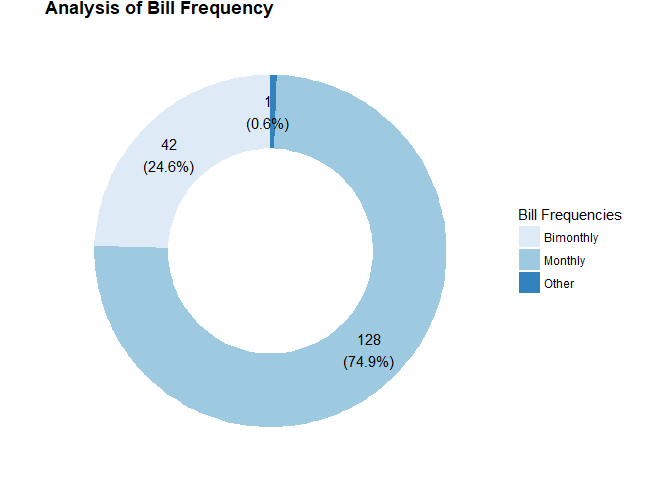
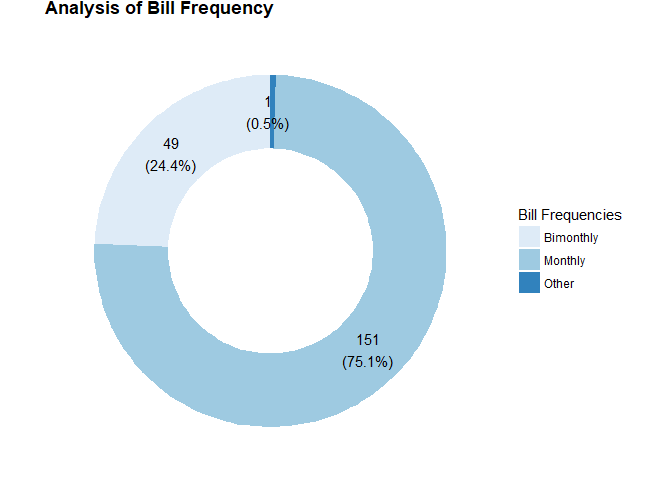
updating to include new owrs files

Changed region(s): [[0.1875, 0.2812, 0.3125, 0.375], [0.5, 0.6875, 0.5938, 0.7812], [0.1562, 0.5, 0.2188, 0.5312]]

diff --git a/owrs_analysis.md b/owrs_analysis.md
@@ -33,14 +33,17 @@ This section discusses general characteristics of the rates for utilities analyz
 
 
 ![Figure  1: Bill Frequency Pie Chart.](owrs_analysis_files/figure-html/bill_frequency_pie-1.png)
-Figure  1 above shows that 74.9% of the agencies charge their customers on a monthly basis.
+
+Figure  1 above shows that 75.1% of the agencies charge their customers on a monthly basis.
 That indicates an increase in relation to the previous survey (2015), showing that there seems to be trend in Agencies moving from a bi-monthly billing system to a monthly one. 
 
 ![Figure  2: Average bill by parts for all agencies, considering a consumption of 15 CCF in a month.](owrs_analysis_files/figure-html/mean_bill_pie-1.png)
-In terms of the different parts from a bill, Figure  2 shows that for a usage of 15 CCF the commodity charge portion from the bill is the biggest one representing on average 32.6% of the total bill.
+
+In terms of the different parts from a bill, Figure  2 shows that for a usage of 15 CCF the commodity charge portion from the bill is the biggest one representing on average 28.2% of the total bill.
 
 ![Figure  3: Types of rate structures.](owrs_analysis_files/figure-html/rate_type_pie-1.png)
-From analyzing the different rate structures adopted by each agency, Figure  3 shows that most of the agencies(67.7%) adopt a tiered rate structure, but a significant amount still adopt an uniform rate structure (24.6%)
+
+From analyzing the different rate structures adopted by each agency, Figure  3 shows that most of the agencies(69.7%) adopt a tiered rate structure, but a significant amount still adopt an uniform rate structure (23.7%)
 
 
 
@@ -49,13 +52,16 @@ From analyzing the different rate structures adopted by each agency, Figure  3 s
 
 
 ![Figure  4: Ratio of Service charge to total bill at 15 CCF.](owrs_analysis_files/figure-html/service_ratio_histogram-1.png)
-The histogram in Figure  5 shows the distribution and the mean of the ratio between the service charge and the total bill for each agency. That number is a good proxy for the proportion of revenue in each agency that is fixed and does not depend on the consumer's water usage.
 
-![Figure  6: Total bill at 15 CCF.](owrs_analysis_files/figure-html/bill_histogram-1.png)
-Figure  6 shows an histogram of the different amounts charged by each agency for a water usage of 15 CCF in single family residential units.
+The histogram in Figure  4 shows the distribution and the mean of the ratio between the service charge and the total bill for each agency. That number is a good proxy for the proportion of revenue in each agency that is fixed and does not depend on the consumer's water usage.
 
-![Figure  7: Boxplot of Total Bill vs Usage.](owrs_analysis_files/figure-html/total_bill_vs_usage_box-1.png)
-Figure  7 ilustrates how the variability of the total water bill among agencies increases the higher the water usage by single residential units. It noteworthy that at a usage as low as 10 to 15 CCF there can be already a difference of two to three fold between agencies. 
+![Figure  5: Total bill at 15 CCF.](owrs_analysis_files/figure-html/bill_histogram-1.png)
+
+Figure  5 shows an histogram of the different amounts charged by each agency for a water usage of 15 CCF in single family residential units.
+
+![Figure  6: Boxplot of Total Bill vs Usage.](owrs_analysis_files/figure-html/total_bill_vs_usage_box-1.png)
+
+Figure  6 ilustrates how the variability of the total water bill among agencies increases the higher the water usage by single residential units. It noteworthy that at a usage as low as 10 to 15 CCF there can be already a difference of two to three fold between agencies. 
 
 # Relating Rates to Efficiency
 
@@ -69,8 +75,9 @@ The period considered for the analysis is 9/2016 to 8/2017.
 
 
 
-![Figure  8: Average price charged for 15 CCF across all agencies included in the survey.](owrs_analysis_files/figure-html/avg_price_history-1.png)
-Figure  8 shows that the prices remained fairly stable throughout the year. Although there was a large variability across agencies the the total bill for 15 CCF of usage for about half of the agencies stayed in the interval between $50 and $80 for most of the year. 
+![Figure  7: Average price charged for 15 CCF across all agencies included in the survey.](owrs_analysis_files/figure-html/avg_price_history-1.png)
+
+Figure  7 shows that the prices remained fairly stable throughout the year. Although there was a large variability across agencies the the total bill for 15 CCF of usage for about half of the agencies stayed in the interval between $50 and $80 for most of the year. 
 
 ## Efficiency in the period
 Load suppliers report info and join with the Utilities list from the OWRS files
@@ -78,8 +85,9 @@ Load suppliers report info and join with the Utilities list from the OWRS files
 
 
 
-![Figure  9: Efficiency measured as percentage above target.](owrs_analysis_files/figure-html/efficiency_ts-1.png)
-In terms of Efficiency Figure  9 shows a considerable seasonal variation and that even with that variation, most agencies have met theri efficiency goals throughout the whole period. 
+![Figure  8: Efficiency measured as percentage above target.](owrs_analysis_files/figure-html/efficiency_ts-1.png)
+
+In terms of Efficiency Figure  8 shows a considerable seasonal variation and that even with that variation, most agencies have met theri efficiency goals throughout the whole period. 
 
 
 
@@ -87,23 +95,27 @@ In terms of Efficiency Figure  9 shows a considerable seasonal variation and tha
 
 
 
-![Figure  10: Efficiency vs Total Bill.](owrs_analysis_files/figure-html/eff_vs_total_bill-1.png)
-Despite the large variance around the linear fit, Figure  10 does show a significant[* pearson? another statistical test?] negative correlation between the percentage above target and the total bill paid by residential customers in single-family units. 
+![Figure  9: Efficiency vs Total Bill.](owrs_analysis_files/figure-html/eff_vs_total_bill-1.png)
 
-![Figure  11: Efficiency vs Percentage of Service Charge in Total Bill.](owrs_analysis_files/figure-html/eff_vs_pctFixed-1.png)
-Furthermore, Figure  11 shows a positive correlation [significant? pearson?] of Percentage of Service Charge and Percentage Above Target. Indicating that the more sensitive their bill is to the amount of water they consume, more efficient the customers tend to be.  
+Despite the large variance around the linear fit, Figure  9 does show a significant[* pearson? another statistical test?] negative correlation between the percentage above target and the total bill paid by residential customers in single-family units. 
+
+![Figure  10: Efficiency vs Percentage of Service Charge in Total Bill.](owrs_analysis_files/figure-html/eff_vs_pctFixed-1.png)
+
+Furthermore, Figure  10 shows a positive correlation [significant? pearson?] of Percentage of Service Charge and Percentage Above Target. Indicating that the more sensitive their bill is to the amount of water they consume, more efficient the customers tend to be.  
 
 
 ## Operational Costs and Revenue in the Water Agencies
 
 
 
-![Figure  12: Percentage of costs that are fixed for an Agency.](owrs_analysis_files/figure-html/pct_fixed_costs-1.png)
+![Figure  11: Percentage of costs that are fixed for an Agency.](owrs_analysis_files/figure-html/pct_fixed_costs-1.png)
 
 
-![Figure  13: Percentage of an Agency's revenues that are fixed.](owrs_analysis_files/figure-html/pct_fixed_rev-1.png)
-In this year's survey, some water agencies indicated (as an optional response) how much of their revenue and how much of their costs come from fixed sources that do not depend on the amount of water usage in a given period. Figure  12 shows that on average, the water agencies that provided that information, have 61 % of their costs fixed, while 49 % of their revenue being fixed, as show in Figure  13.
+![Figure  12: Percentage of an Agency's revenues that are fixed.](owrs_analysis_files/figure-html/pct_fixed_rev-1.png)
+
+In this year's survey, some water agencies indicated (as an optional response) how much of their revenue and how much of their costs come from fixed sources that do not depend on the amount of water usage in a given period. Figure  11 shows that on average, the water agencies that provided that information, have 61 % of their costs fixed, while 49 % of their revenue being fixed, as show in Figure  12.
 
 
-![Figure  14: Ratio of Percentage of Fixed Revenue per Percentage of Fixed Costs.](owrs_analysis_files/figure-html/fixedRev_per_fixedCosts-1.png)
+![Figure  13: Ratio of Percentage of Fixed Revenue per Percentage of Fixed Costs.](owrs_analysis_files/figure-html/fixedRev_per_fixedCosts-1.png)
+
 In addition, when computing the ratio between the percentage of fixed revenue to percentage of fixed costs, Figure  13 shows that at least half of the agencies have their percentage of fixed revenue smaller than or equal to the percentage of fixed costs.
